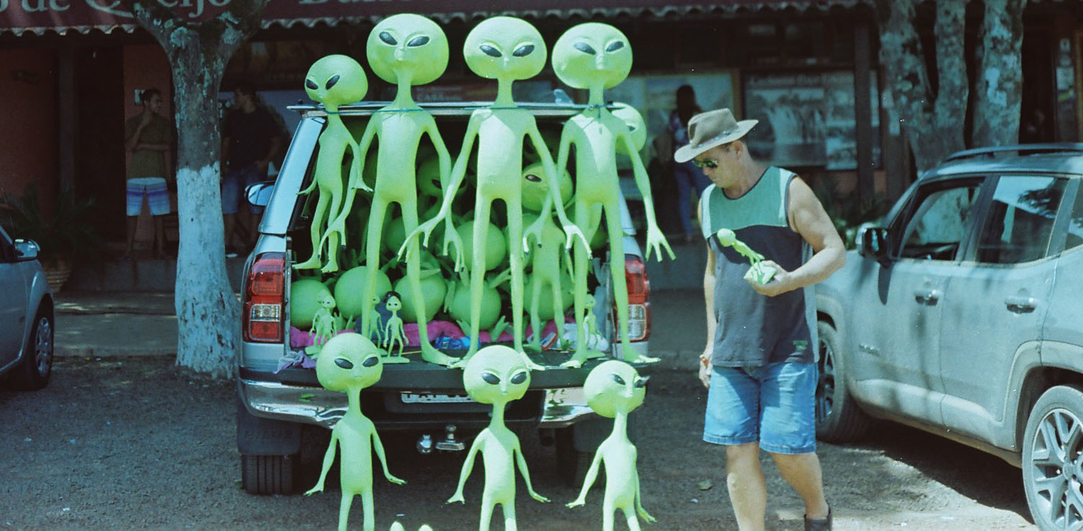
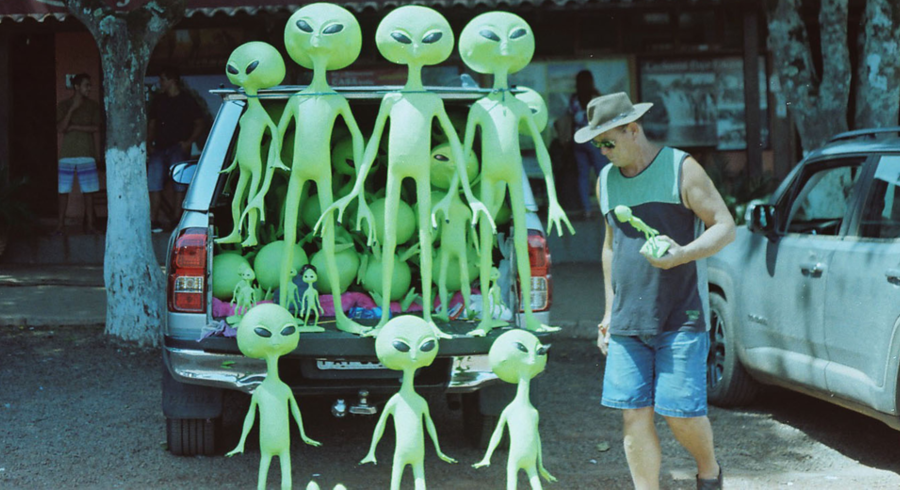
carousel corrected

diff --git a/css/styles.css b/css/styles.css
@@ -11,17 +11,9 @@ body {
 	position: relative;
 }
 
-.carousel-inner {
-	max-height: 600px;
-}
-
 .icon-alien {
 	width: 150px;
 	height: 150px;
-}
-
-.card img {
-	height: 250px;
 }
 
 .icon {
